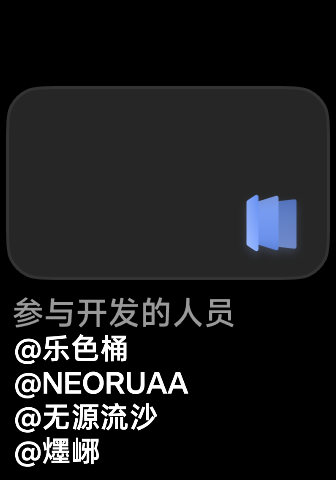
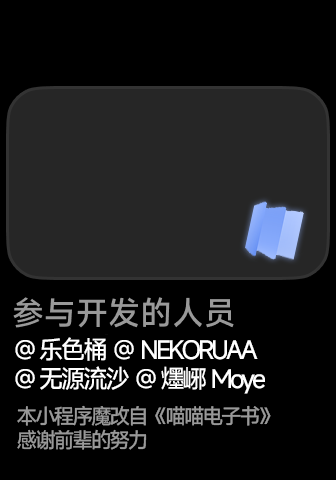
改名这一块

Changed region(s): [[0.0298, 0.6875, 0.8036, 1.0], [0.7143, 0.4062, 0.9226, 0.5625]]

diff --git a/README.md b/README.md
@@ -3,11 +3,10 @@
 ### 喵喵电子书多端设计稿  
 https://mastergo.com/goto/KWzbQtxB?file=165290124574010  
 
-### 喵喵电子书安卓客户端  
-https://github.com/BandBBS-Vela-Dev/com.bandbbs.ebook-android
+### 弦电子书安卓客户端  
 
-### 喵喵电子书 AstroBox 插件端  
-https://github.com/leset0ng/com.bandbbs.ebook-AstroBox
+https://github.com/youshen2/com.bandbbs.ebook-android
+
 </br></br>
 
 ## 快速上手
